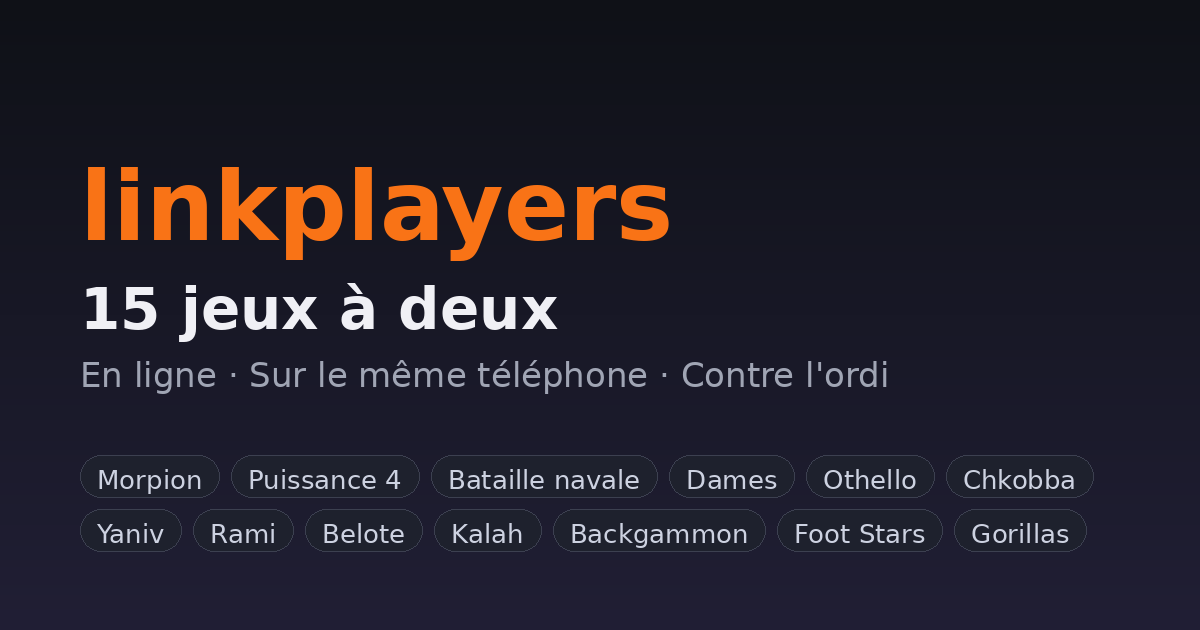
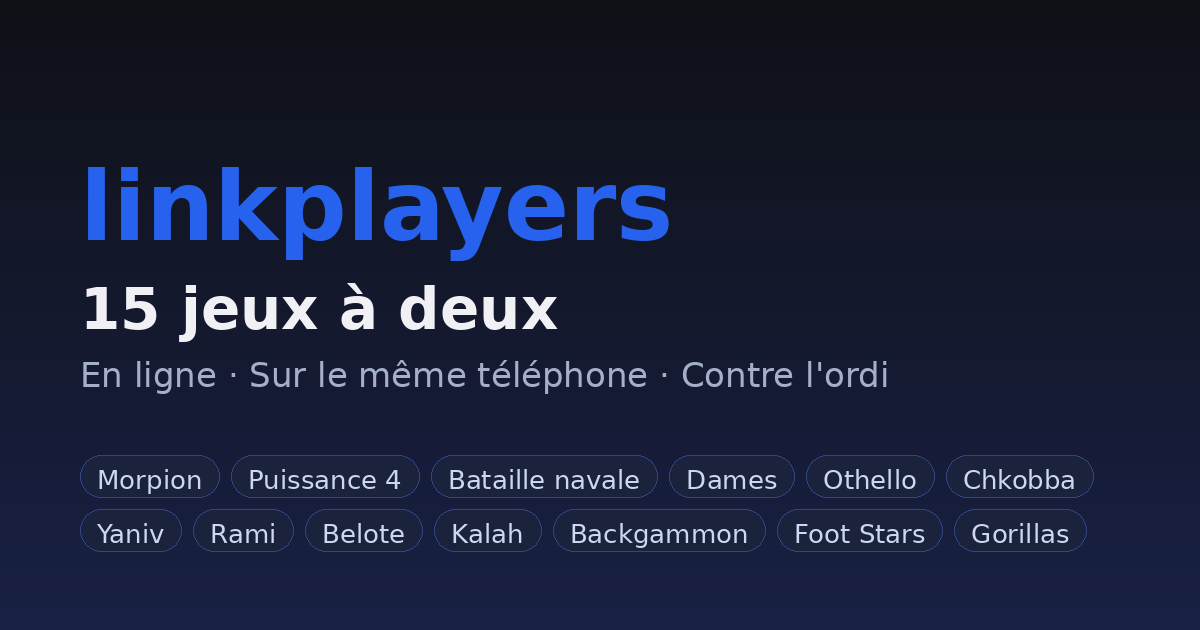
Passe la couleur du site de l'orange au bleu
Remplace l'orange par un bleu de la même famille que celui du drapeau
d'Israël (#0038B8), dans tout le site.

Nuance retenue : HSL 222 85% 54%. Un bleu strictement plus foncé que
celui du drapeau (luminosité ≤36%) tombait à 1,7 de contraste sur le
fond sombre du site, ce qui le rendait illisible — or la couleur est
utilisée 91 fois en couleur de texte (scores, titres, statuts). La
teinte choisie garde le caractère profond du bleu tout en restant
lisible (contraste 3,6 sur le fond, 5,0 pour le texte blanc posé
dessus, donc boutons parfaitement lisibles).

- Variables de thème : primary, sidebar-primary, ring et sidebar-ring
  (le halo de focus était resté orange).
- Couleurs codées en dur dans les jeux Canvas : pions du joueur 1 au
  Foot Stars (et le texte d'aide qui disait 'pions orange'), liseré du
  gorille du joueur. Le soleil de Gorillas garde ses tons chauds.
- Couleur de thème du navigateur et image d'aperçu social régénérée aux
  nouvelles couleurs.

diff --git a/src/index.css b/src/index.css
@@ -17,7 +17,7 @@
     --popover: 220 20% 12%;
     --popover-foreground: 210 40% 98%;
 
-    --primary: 15 90% 55%;
+    --primary: 222 85% 54%;
     --primary-foreground: 210 40% 98%;
 
     --secondary: 195 85% 45%;
@@ -34,7 +34,7 @@
 
     --border: 220 15% 20%;
     --input: 220 15% 20%;
-    --ring: 15 90% 55%;
+    --ring: 222 85% 54%;
 
     --radius: 0.75rem;
 
@@ -43,12 +43,12 @@
 
     --sidebar-background: 220 25% 10%;
     --sidebar-foreground: 210 40% 98%;
-    --sidebar-primary: 15 90% 55%;
+    --sidebar-primary: 222 85% 54%;
     --sidebar-primary-foreground: 210 40% 98%;
     --sidebar-accent: 220 15% 18%;
     --sidebar-accent-foreground: 210 40% 98%;
     --sidebar-border: 220 15% 20%;
-    --sidebar-ring: 15 90% 55%;
+    --sidebar-ring: 222 85% 54%;
   }
 
   .dark {
@@ -61,7 +61,7 @@
     --popover: 220 20% 12%;
     --popover-foreground: 210 40% 98%;
 
-    --primary: 15 90% 55%;
+    --primary: 222 85% 54%;
     --primary-foreground: 210 40% 98%;
 
     --secondary: 195 85% 45%;
@@ -78,16 +78,16 @@
 
     --border: 220 15% 20%;
     --input: 220 15% 20%;
-    --ring: 15 90% 55%;
+    --ring: 222 85% 54%;
 
     --sidebar-background: 220 25% 10%;
     --sidebar-foreground: 210 40% 98%;
-    --sidebar-primary: 15 90% 55%;
+    --sidebar-primary: 222 85% 54%;
     --sidebar-primary-foreground: 210 40% 98%;
     --sidebar-accent: 220 15% 18%;
     --sidebar-accent-foreground: 210 40% 98%;
     --sidebar-border: 220 15% 20%;
-    --sidebar-ring: 15 90% 55%;
+    --sidebar-ring: 222 85% 54%;
   }
 }
 

diff --git a/src/components/games/SoccerStarsGame.tsx b/src/components/games/SoccerStarsGame.tsx
@@ -15,7 +15,7 @@ interface SoccerStarsGameProps {
 }
 
 const COLORS = {
-  player1: '#f97316', // primary-ish orange
+  player1: '#2662ed', // bleu principal du site
   player2: '#1f2937', // foreground-ish dark
   ball: '#ffffff',
   field: '#14532d',
@@ -265,7 +265,7 @@ export const SoccerStarsGame = ({ game, playerId, onFlick, pendingFrames, onAnim
         />
       </div>
       <p className="text-center text-[0.65rem] text-muted-foreground">
-        Comme au air-hockey : tes pions ({me === 'player1' ? 'orange' : 'foncés'}) percutent le ballon selon leur trajectoire.
+        Comme au air-hockey : tes pions ({me === 'player1' ? 'bleus' : 'foncés'}) percutent le ballon selon leur trajectoire.
       </p>
     </div>
   );

diff --git a/src/components/games/GorillasGame.tsx b/src/components/games/GorillasGame.tsx
@@ -219,7 +219,7 @@ export const GorillasGame = ({ game, playerId, onThrow, pendingTrajectory, onAni
 
       // Liseré autour de MON gorille, pour le repérer d'un coup d'œil
       if (isMine) {
-        ctx.strokeStyle = '#f97316';
+        ctx.strokeStyle = '#2662ed';
         ctx.lineWidth = 2;
         ctx.beginPath();
         ctx.arc(p.x, p.y - r * 1.1, r * 1.55, 0, Math.PI * 2);

diff --git a/index.html b/index.html
@@ -3,7 +3,7 @@
   <head>
     <meta charset="UTF-8" />
     <meta name="viewport" content="width=device-width, initial-scale=1.0" />
-    <meta name="theme-color" content="#f97316" />
+    <meta name="theme-color" content="#2662ed" />
 
     <title>linkplayers — 15 jeux à deux, en ligne ou sur le même téléphone</title>
     <meta
